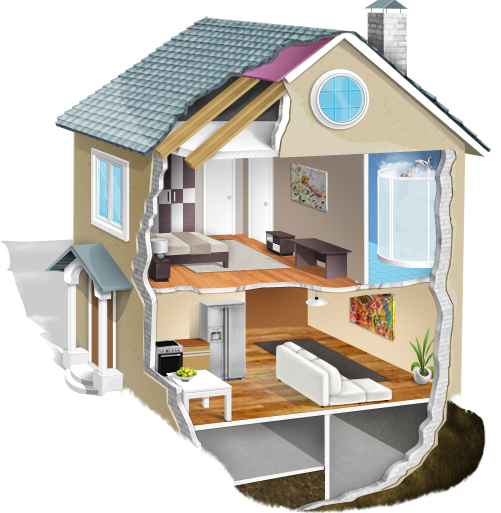
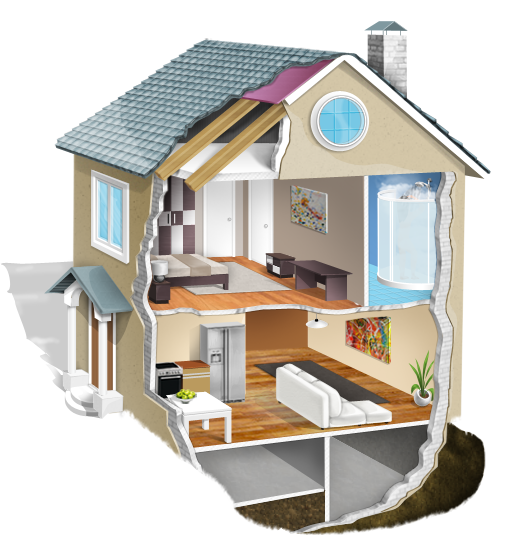
Improved the house; Added 3D acceleration for iOS devices

diff --git a/app/assets/stylesheets/scenes/house/_header.sass b/app/assets/stylesheets/scenes/house/_header.sass
@@ -37,11 +37,11 @@
 
 
     .house
-      @include house-prop(house, 501px, 513px, 725px, 0px)
+      @include house-prop(house, 501px, 535px, 725px, 0px)
       z-index: 5
 
     .solar-thermal_panels
-      @include house-prop-dyn(solarthermal, 143px, 59px, 885px, 0px)
+      @include house-prop-dyn(solarthermal, 143px, 81px, 885px, 0px)
       z-index: 6
 
       .icon.none
@@ -52,7 +52,7 @@
         background-position: -143px 0
 
     .solar-panels
-      @include house-prop-dyn(solarpv, 156px, 82px, 786px, 62px)
+      @include house-prop-dyn(solarpv, 156px, 82px, 786px, 84px)
       z-index: 6
 
       .icon.none
@@ -63,7 +63,7 @@
         background-position: -156px 0
 
     .hot-water
-      @include house-prop-dyn(hotwater, 117px, 124px, 1070px, 162px)
+      @include house-prop-dyn(hotwater, 117px, 124px, 1070px, 184px)
       z-index: 6
 
       .icon.none
@@ -74,7 +74,7 @@
         background-position: -117px 0
 
     .lighting
-      @include house-prop-dyn(lighting, 260px, 219px, 874px, 153px)
+      @include house-prop-dyn(lighting, 260px, 219px, 874px, 175px)
       z-index: 6
 
       .icon.incandescent_lighting
@@ -85,7 +85,7 @@
         background-position: -520px 0
 
     .insulation
-      @include house-prop-dyn(insulation, 520px, 513px, 725px, 0px)
+      @include house-prop-dyn(insulation, 520px, 513px, 725px, 22px)
       z-index: 7
       .icon.extremely_low
         background-position: left 0
@@ -104,7 +104,7 @@
 
 
     .aircon
-      @include house-prop-dyn(aircon, 114px, 163px, 1049px, 151px)
+      @include house-prop-dyn(aircon, 114px, 163px, 1049px, 173px)
       z-index: 6
 
       .icon.none
@@ -115,7 +115,7 @@
         background-position: -114px 0
 
     .space-heating
-      @include house-prop-dyn(spaceheating, 281px, 137px, 964px, 331px)
+      @include house-prop-dyn(spaceheating, 281px, 137px, 964px, 353px)
       z-index: 6
 
       .icon.combi_boiler
@@ -126,7 +126,7 @@
         background-position: 0 -274px
 
     .appliances
-      @include house-prop-dyn(appliances, 224px, 256px, 876px, 207px)
+      @include house-prop-dyn(appliances, 224px, 256px, 876px, 229px)
       z-index: 6
 
       .icon.none

diff --git a/app/assets/stylesheets/_base.sass b/app/assets/stylesheets/_base.sass
@@ -13,6 +13,15 @@ body
   background: white
   font: 13px/18px "Helvetica Neue", Arial, Helvetica, sans-serif
 
+  // Add hardware acceleration for iOS 5 devices
+  -webkit-transform: translate3d(0, 0, 0)
+  -webkit-transform-style: preserve-3d
+
+  // Add hardware acceleration for iOS 6 devices
+  -webkit-transform: translateZ(0)
+  -webkit-perspective: 1000
+  -webkit-backface-visibility: hidden
+
 a
   color: #5975a9
   text-decoration: none
